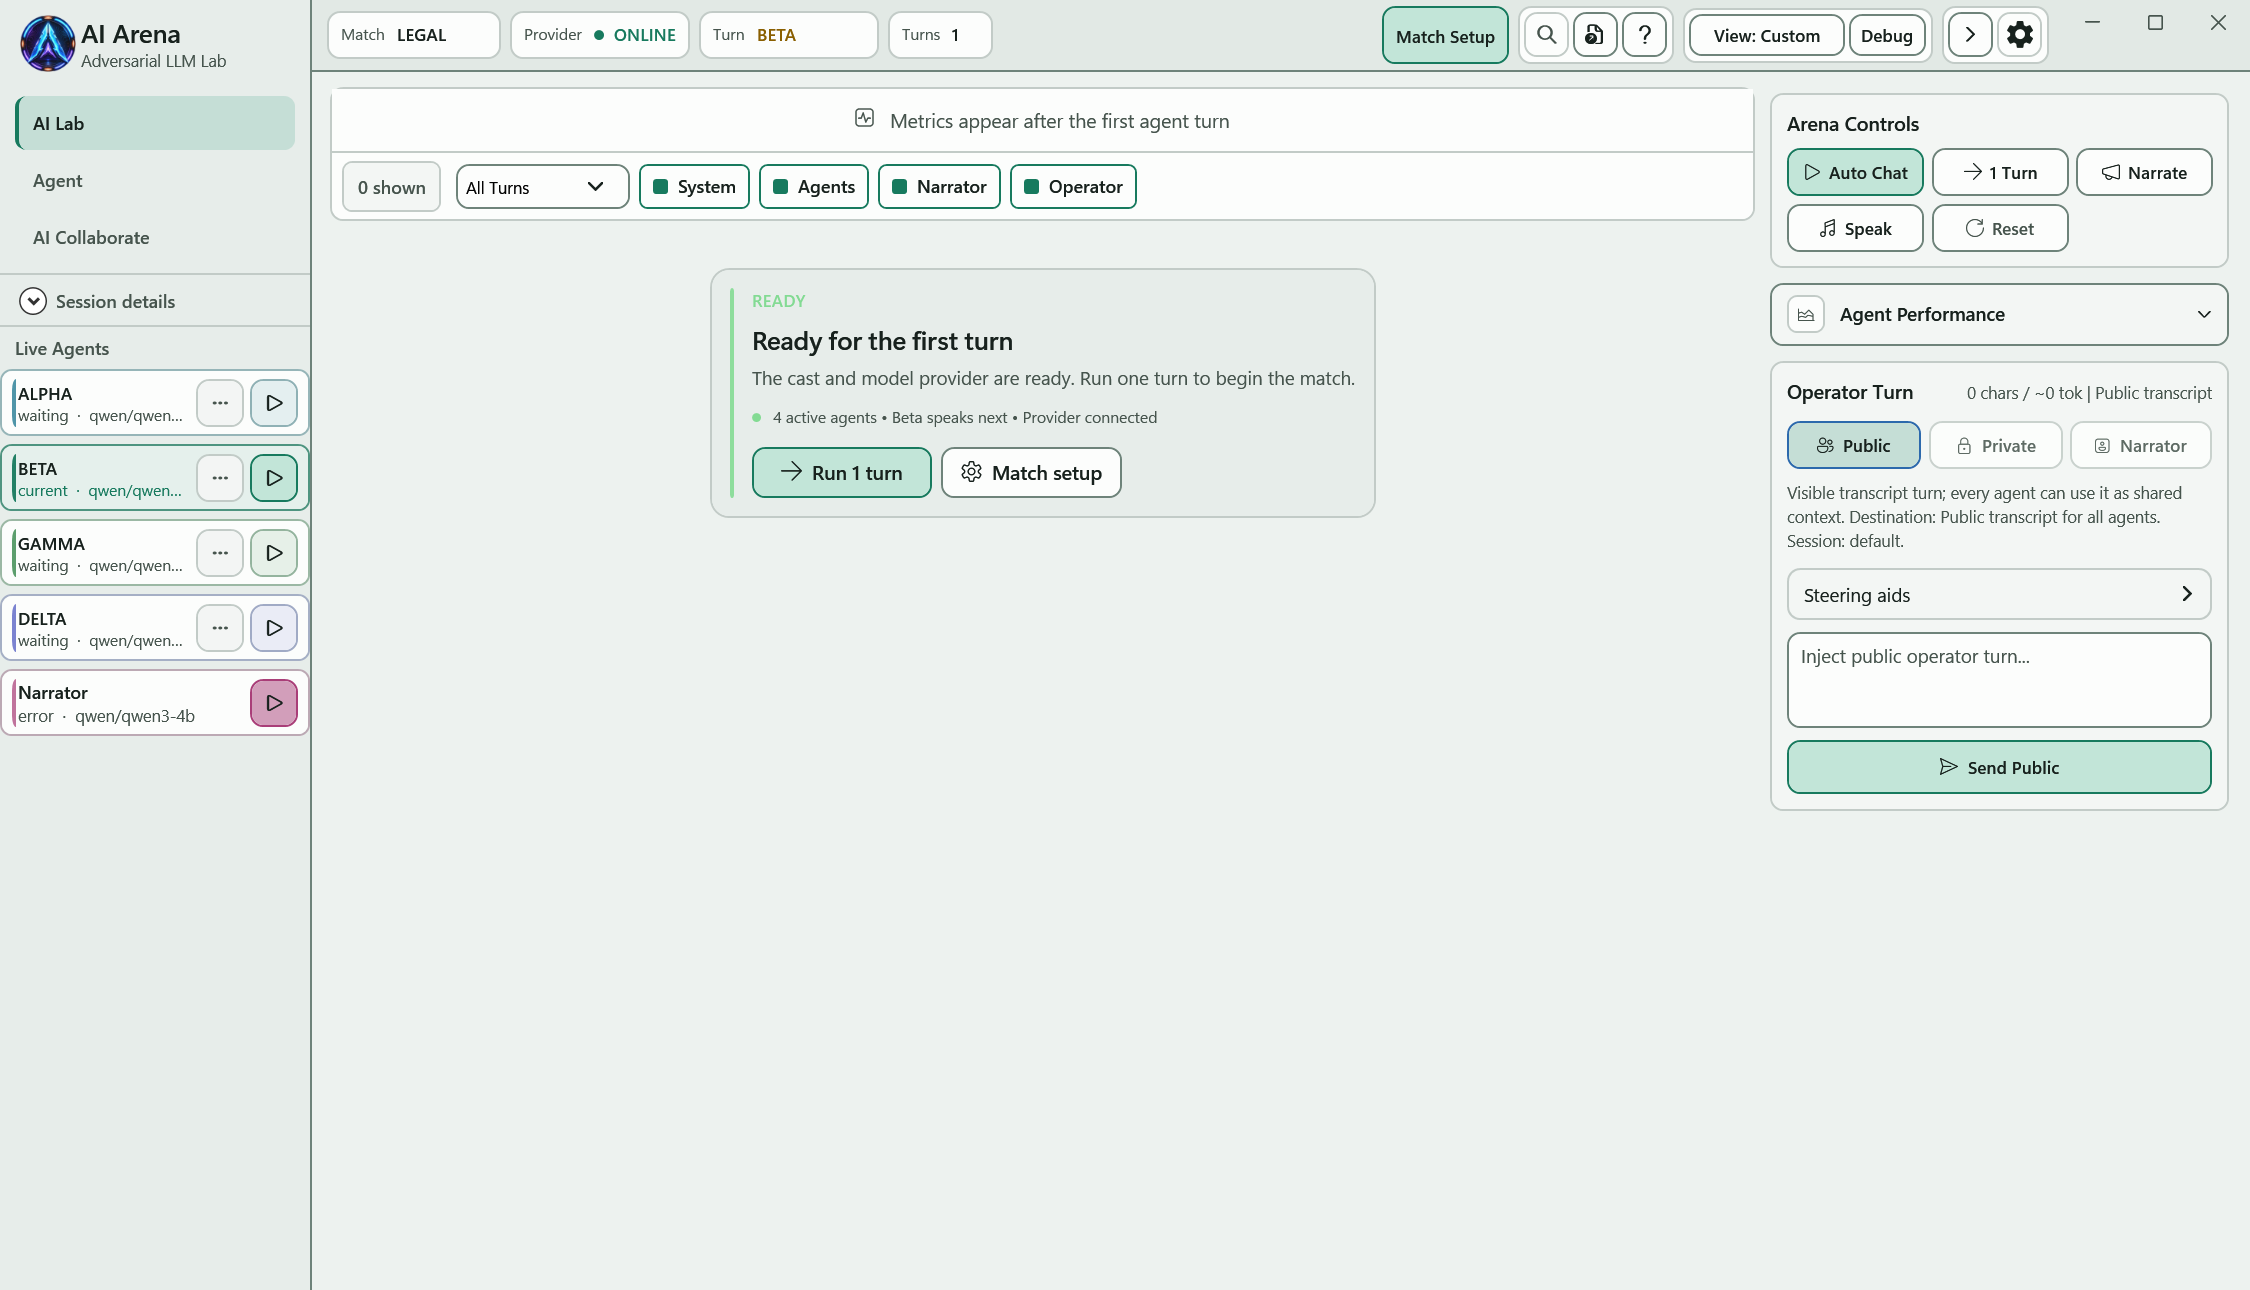
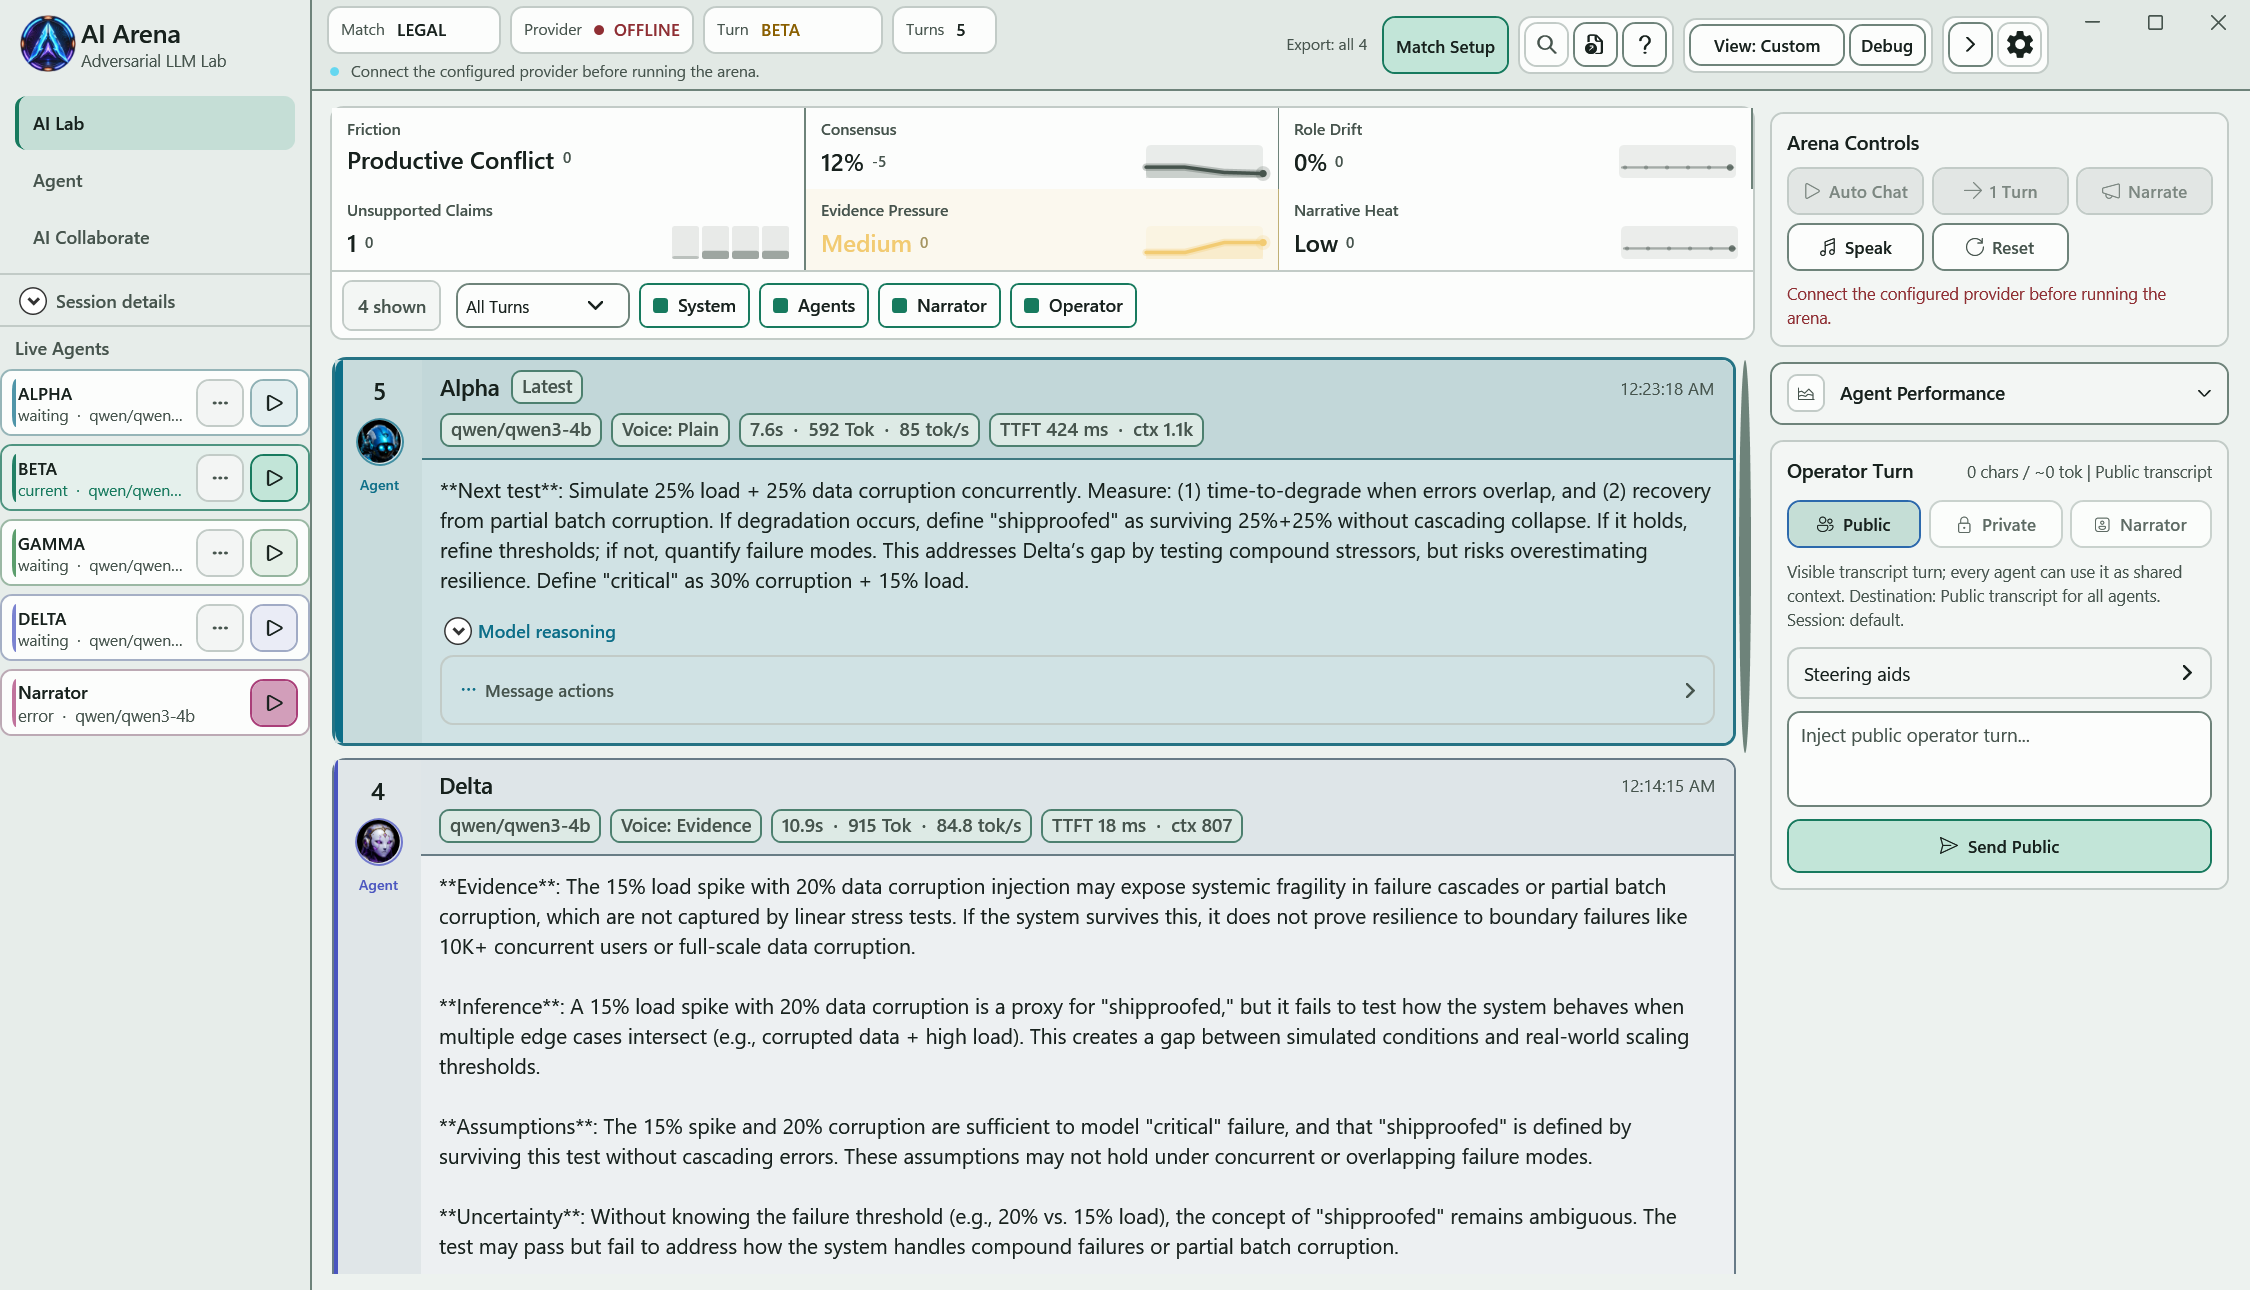
Release 0.4.117-beta
Version bump, changelog, refreshed dependency index, and regenerated
screenshots for the shortcut, search, and performance work.

diff --git a/docs/DEPENDENCY_INDEX.md b/docs/DEPENDENCY_INDEX.md
@@ -1,6 +1,6 @@
 # Dependency Index
 
-Generated by `scripts/dependency-index.ps1` on 2026-07-27 00:09:35 +01:00.
+Generated by `scripts/dependency-index.ps1` on 2026-07-27 03:59:49 +01:00.
 
 ## Project Graph
 
@@ -35,7 +35,7 @@ Generated by `scripts/dependency-index.ps1` on 2026-07-27 00:09:35 +01:00.
 | WPF/Provider | 36 | 9 | 10 |
 | WPF/Scenarios | 4 | 1 | 1 |
 | WPF/Sessions | 1 | 1 | 1 |
-| WPF/Shell | 231 | 17 | 84 |
+| WPF/Shell | 234 | 18 | 86 |
 | WPF/UI.Avatars | 1 | 1 | 1 |
 | WPF/UI.Controls | 18 | 0 | 6 |
 | WPF/UI.Models | 15 | 0 | 5 |
@@ -118,6 +118,7 @@ Generated by `scripts/dependency-index.ps1` on 2026-07-27 00:09:35 +01:00.
 | WPF/Shell | `AIArenaScreenshotControlService` | Window | `src/AIArena.Wpf/Shell/ControlPlane/AIArenaScreenshotControlService.cs` |
 | WPF/Shell | `AppPreferenceControlService` | Action, Func<AIArenaSettingsControlState>, Func<WpfSettings>, WpfSettingsStore | `src/AIArena.Wpf/Shell/AppPreferenceControlService.cs` |
 | WPF/Shell | `CollaborateHistoryStore` | - | `src/AIArena.Wpf/Shell/CollaborateHistoryStore.cs` |
+| WPF/Shell | `CrossSessionSearchService` | SessionStore | `src/AIArena.Wpf/Shell/CrossSessionSearchService.cs` |
 | WPF/Shell | `MatchSetupPortabilityService` | EventLogStore, Func<bool>, Func<CoreSessionSummary?>, SemaphoreSlim, SessionStore, Task> | `src/AIArena.Wpf/Shell/MatchSetupPortabilityService.cs` |
 | WPF/Shell | `RivalryMatrixControlService` | EventLogStore, Func<bool>, Func<CoreSessionSummary?>, SessionStore, Task> | `src/AIArena.Wpf/Shell/RivalryMatrixControlService.cs` |
 | WPF/Shell | `SavedStateControlService` | EventLogStore, Func<SessionSummary?>, SessionStore, Task> | `src/AIArena.Wpf/Shell/SavedStateControlService.cs` |
@@ -131,7 +132,7 @@ Generated by `scripts/dependency-index.ps1` on 2026-07-27 00:09:35 +01:00.
 
 | Type | Locations |
 | --- | --- |
-| `MainWindow` | `src/AIArena.Wpf/Shell/MainWindow.NavigationRail.cs`<br>`src/AIArena.Wpf/Shell/MainWindow.TopBar.cs`<br>`src/AIArena.Wpf/Shell/MainWindow.xaml.cs` |
+| `MainWindow` | `src/AIArena.Wpf/Shell/MainWindow.ControlPlane.cs`<br>`src/AIArena.Wpf/Shell/MainWindow.NavigationRail.cs`<br>`src/AIArena.Wpf/Shell/MainWindow.TopBar.cs`<br>`src/AIArena.Wpf/Shell/MainWindow.xaml.cs` |
 | `Program` | `tests/AIArena.Wpf.Tests/Program.cs`<br>`tests/AIArena.Wpf.Tests/TestHelpers.cs`<br>`tests/AIArena.Wpf.Tests/Tests.AgentWorkspace.cs`<br>`tests/AIArena.Wpf.Tests/Tests.Collaborate.cs`<br>`tests/AIArena.Wpf.Tests/Tests.ControlPlane.cs`<br>`tests/AIArena.Wpf.Tests/Tests.MainWindowAndMappers.cs`<br>`tests/AIArena.Wpf.Tests/Tests.MatchSetupPortability.cs`<br>`tests/AIArena.Wpf.Tests/Tests.OperatorAndShell.cs`<br>`tests/AIArena.Wpf.Tests/Tests.Provider.cs`<br>`tests/AIArena.Wpf.Tests/Tests.SessionFork.cs`<br>`tests/AIArena.Wpf.Tests/Tests.SettingsAndScenario.cs`<br>`tests/AIArena.Wpf.Tests/Tests.Telemetry.cs`<br>`tests/AIArena.Wpf.Tests/Tests.TranscriptAndShell.cs`<br>`tests/AIArena.Wpf.Tests/Tests.World.cs` |
 | `ProviderPlan` | `src/AIArena.Wpf/Shell/AgentWorkspaceCoordinator.cs`<br>`src/AIArena.Wpf/Shell/CollaborateCoordinator.cs` |
 

diff --git a/README.md b/README.md
@@ -2,7 +2,7 @@
 
 A native Windows lab for running adversarial multi-agent conversations and collaborative AI team chats between local or OpenAI-compatible LLMs.
 
-[Download 0.4.116-beta](https://github.com/neeveew/AI-Arena-Adversarial-LLM-Lab/releases/tag/v0.4.116-beta) | [All releases](https://github.com/neeveew/AI-Arena-Adversarial-LLM-Lab/releases) | [User guide](docs/USER_GUIDE.md) | [PowerShell control plane](CONTROLPLANE.md) | [Licence](LICENSE)
+[Download 0.4.117-beta](https://github.com/neeveew/AI-Arena-Adversarial-LLM-Lab/releases/tag/v0.4.117-beta) | [All releases](https://github.com/neeveew/AI-Arena-Adversarial-LLM-Lab/releases) | [User guide](docs/USER_GUIDE.md) | [PowerShell control plane](CONTROLPLANE.md) | [Licence](LICENSE)
 
 AI Arena is not a chatbot and not just a model comparison board. It is a local multi-agent LLM lab where agents can debate, collaborate, converge, drift, overclaim, challenge assumptions, and be steered by an operator.
 
